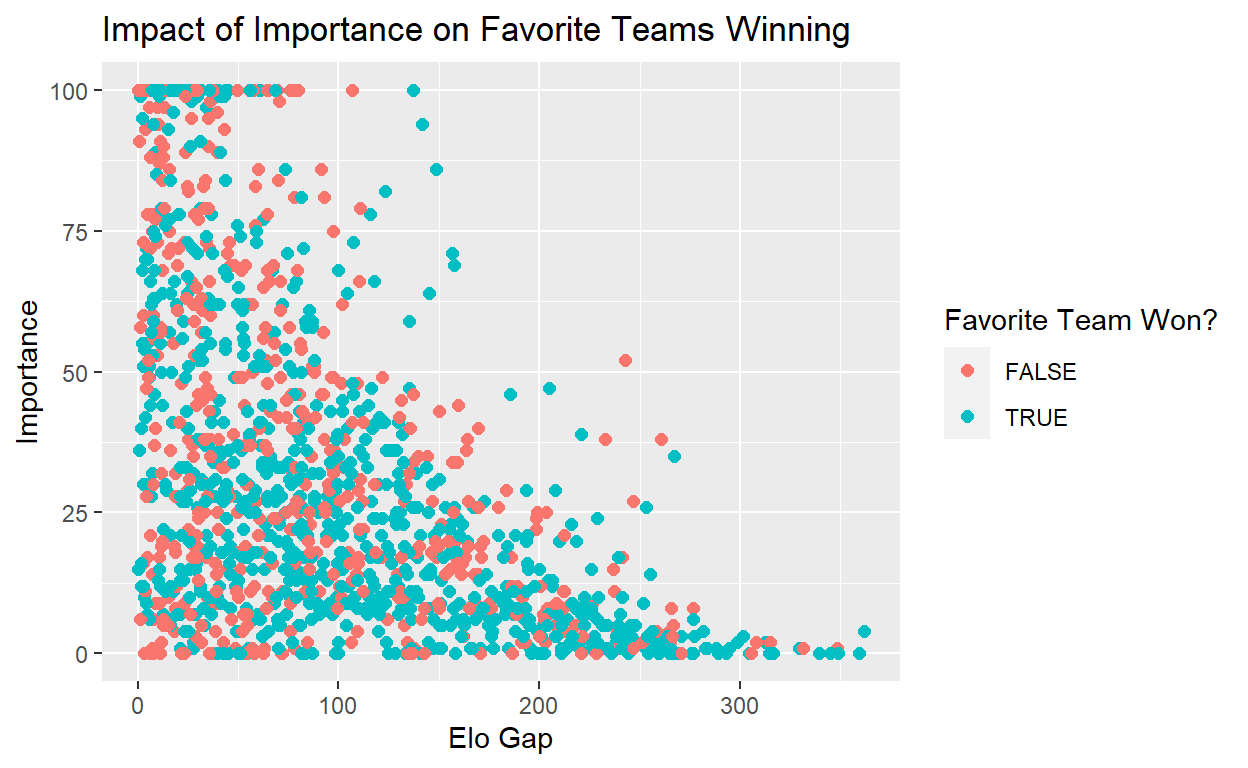
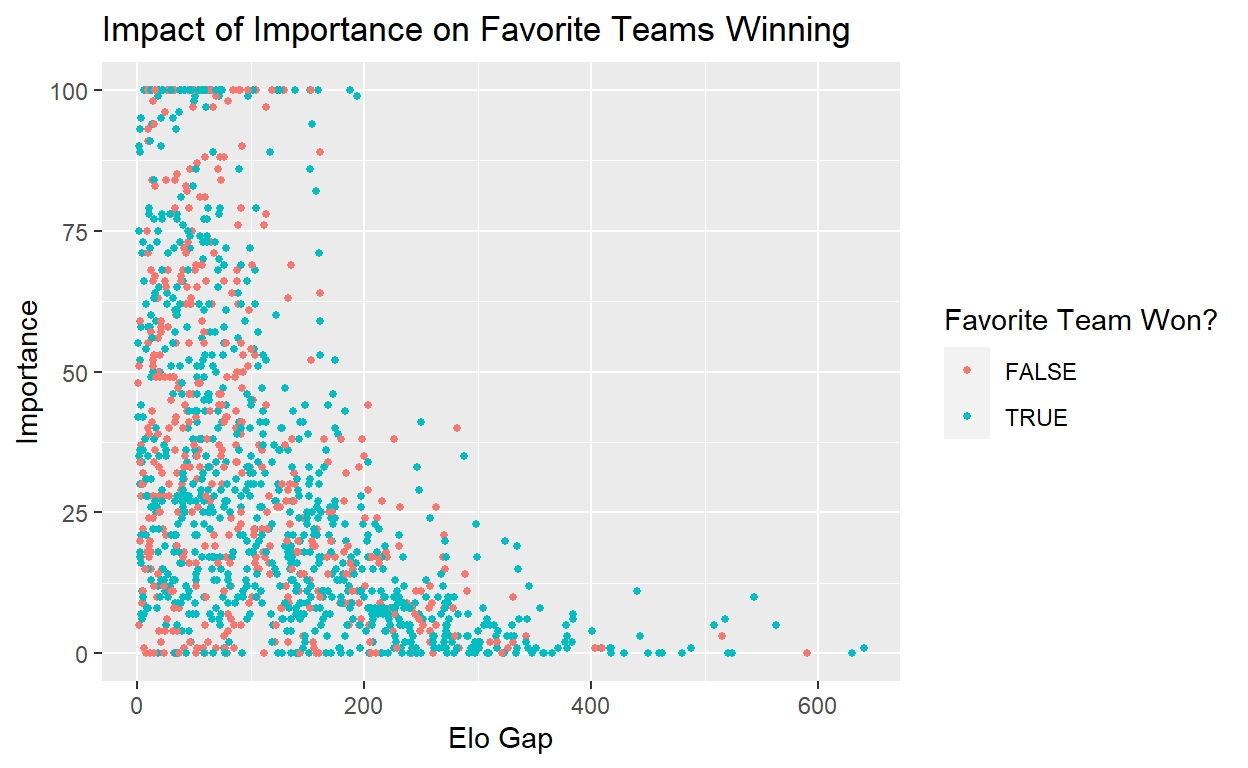
FINAL COMMIT.

diff --git a/index.html b/index.html
@@ -1524,60 +1524,73 @@ code span.wa { color: #5e5e5e; font-style: italic; } /* Warning */
 <span><span class='kw'><a href='https://rdrr.io/r/base/library.html'>library</a></span><span class='op'>(</span><span class='va'><a href='https://readr.tidyverse.org'>readr</a></span><span class='op'>)</span></span></code></pre>
 </div>
 </div>
+<h2 id="introduction">Introduction</h2>
+<p>Any competitive athlete knows that under pressure, performance takes a hit. Nerves make it difficult to play to the best of our abilities, and while professional athletes often utilize mental training to mitigate these negative effects, there are countless examples of player performance taking a hit under pressure: a kicker double-doinking a game winning field goal, or an NBA player bricking the go-ahead free throw. This research project set out to explore this problem through the lens of basketball, asking: how does importance impact how basketball teams perform? I hypothesize that when estimated importance is higher, favored teams will win a lower proportion of games as opposed to when estimated importance is lower, due to the added pressure of the perceived importance.</p>
+<p>The unit of analysis is an NBA game, and the explanatory variable is interest as measured by 538. Importance is the extent to which a game impacted NBA Championship odds, using data from the 2022-2023 NBA season. When teams win games, they increase the chance that they will make the playoffs, and they also decrease the chance that other teams will make the NBA playoffs. Of course, the more likely a team is to make the playoffs, the more likely they are to win the championship, although occasionally teams with lower playoff odds will have higher championship odds. My outcome variable is winning, specifically if the favored team won. I assigned favorite-status and underdog-status based on 538’s elo ratings. We’d expect favorites to win more often than not in both low- and high-importance games if importance had no impact on outcome. This research is important because performance is not unique to sports games: doctors, firefighters, and just about every other professional is put in high-pressure situations at some point or another. Moreover, students must take extremely important exams, like their finals or standardized tests. Knowing how NBA players perform under pressure will allow us to draw insights into other fields, as well as consider how effective the interventions NBA players undergo to prevent nerves from impacting their performance really are.</p>
+<h2 id="data">Data</h2>
+<p>This is a cross-sectional study; data was collected at a single point in time following the NBA Season, and I examined the relationship between importance and the performance of the favored team. The data source is the entire catalog of games from the 2022-2023 NBA Season. Each game was assigned an importance rating prior to the game; additionally, both teams competing in a game were assigned elos before the game. Per fivethirtyeight.com, importance is calculated differently depending on outcomes in different sports. For instance, in the Premiere League, importance not only measures final standings, but also the odds of making the Champions League or being relegated. In the NBA, the outcomes are championship and playoff odds. 538 calculates these odds conditional on a particular team winning and losing before taking the difference between them. They then take the factor with the maximum range of difference for each team and scale the value to be between 0 and 100, before averaging the two competitors’ individual importance measures. The other important variable is RAPTOR, which is 538’s own elo measure. In the season in question, RAPTOR ranged from the Nuggets’ 1719 to the Piston’s 1299. The model rose to fame after it correctly forecasted the 2018-2019 Toronto Raptor’s NBA Championship win over the Golden State Warriors. The implied odds of the Warriors winning the championship were approximately 25 percent, making the model’s forecast incredibly impressive. RAPTOR individually rates players in two ways: a box score component that uses individual player stats, and an on-off component that measures team performance when a player is on or off the court.</p>
+<p>I will now further describe the RAPTOR method: RAPTOR starts with the insights from RAPM, or real adjusted plus-minus, which measures point differential when a player is on the court. RAPM attempts to measure the value that a player contributes to his team’s ability to outscore and out defend their opponents. RAPTOR measures offense in four categories: scoring and usage; passing; rebounding; and space creation. Then, it measures defense with: steals; fouls drawn; opponent field goal percentage; defensive rebounds; and points scored by the opponent the player in question is supposed to be guarding. RAPTOR uses individual stats by adjusting them relative to league average before regressing them against RAPM, and it also controls for these outliers like Javale McGee on a 67-win Warriors team that didn’t really make force him to play all that well to win. It attempts to control for for the mediocre player, amazing team problem. Players with amazing teammates will find it easier to make shots, dish out assists, and get rebounds on the offensive side of the ball, and players with phenomenal defenders on their team will get bailed out by the skill of their teammates. Some players appear to be much better than they are because they are on an amazing team: regardless of how well they play, the rest of their team will ensure that they outperform their opponents. To get from individual ratings to a team rating, the sum of all individual ratings on a team is multiplied by .8 in the regular season and .9 in the playoffs. I used RAPTOR and wins to create a new variable called fav_won that measured if the team with the higher RAPTOR elo won. I also created a variable called elo_gap that measures how wide the gap between the favorite and the underdog was; this is important in measuring magnitude, since it is possible that past a certain elo gap, importance ceases to be important. For instance, even if the entire world was watching, no college football team would ever beat an NFL team.</p>
 <div class="layout-chunk" data-layout="l-body">
 <div class="sourceCode">
-<pre class="sourceCode r"><code class="sourceCode r"><span><span class='va'>nba_elo</span> <span class='op'>&lt;-</span> <span class='fu'><a href='https://readr.tidyverse.org/reference/read_delim.html'>read_csv</a></span><span class='op'>(</span><span class='st'>"C:\\Users\\jonah\\Downloads\\nba_elo_latest.csv"</span><span class='op'>)</span></span>
+<pre class="sourceCode r"><code class="sourceCode r"><span><span class='va'>raptor_elo</span> <span class='op'>&lt;-</span> <span class='fu'><a href='https://readr.tidyverse.org/reference/read_delim.html'>read_csv</a></span><span class='op'>(</span><span class='st'>"C:\\Users\\jonah\\Downloads\\nba_elo_latest.csv"</span><span class='op'>)</span></span>
 <span></span>
-<span><span class='va'>nba_elo</span> <span class='op'>&lt;-</span> <span class='va'>nba_elo</span> <span class='op'>|&gt;</span></span>
-<span>  <span class='fu'><a href='https://dplyr.tidyverse.org/reference/mutate.html'>mutate</a></span><span class='op'>(</span>elo_gap <span class='op'>=</span> <span class='fu'><a href='https://rdrr.io/r/base/MathFun.html'>abs</a></span><span class='op'>(</span><span class='va'>elo1_pre</span> <span class='op'>-</span> <span class='va'>elo2_pre</span><span class='op'>)</span>,</span>
-<span>         fav_won <span class='op'>=</span> <span class='op'>(</span><span class='va'>elo1_pre</span> <span class='op'>&gt;</span> <span class='va'>elo2_pre</span> <span class='op'>&amp;</span> <span class='va'>score1</span> <span class='op'>&gt;</span> <span class='va'>score2</span><span class='op'>)</span> </span>
-<span>                 <span class='op'>|</span> <span class='op'>(</span><span class='va'>elo1_pre</span> <span class='op'>&lt;</span> <span class='va'>elo2_pre</span> <span class='op'>&amp;</span> <span class='va'>score1</span> <span class='op'>&lt;</span> <span class='va'>score2</span><span class='op'>)</span><span class='op'>)</span></span>
+<span><span class='va'>raptor_elo</span> <span class='op'>&lt;-</span> <span class='va'>raptor_elo</span> <span class='op'>|&gt;</span></span>
+<span>  <span class='fu'><a href='https://dplyr.tidyverse.org/reference/mutate.html'>mutate</a></span><span class='op'>(</span>elo_gap <span class='op'>=</span> <span class='fu'><a href='https://rdrr.io/r/base/MathFun.html'>abs</a></span><span class='op'>(</span><span class='va'>raptor1_pre</span> <span class='op'>-</span> <span class='va'>raptor2_pre</span><span class='op'>)</span>,</span>
+<span>         fav_won <span class='op'>=</span> <span class='op'>(</span><span class='va'>raptor1_pre</span> <span class='op'>&gt;</span> <span class='va'>raptor2_pre</span> <span class='op'>&amp;</span> <span class='va'>score1</span> <span class='op'>&gt;</span> <span class='va'>score2</span><span class='op'>)</span> </span>
+<span>                 <span class='op'>|</span> <span class='op'>(</span><span class='va'>raptor1_pre</span> <span class='op'>&lt;</span> <span class='va'>raptor2_pre</span> <span class='op'>&amp;</span> <span class='va'>score1</span> <span class='op'>&lt;</span> <span class='va'>score2</span><span class='op'>)</span><span class='op'>)</span></span>
 <span></span>
-<span><span class='va'>fav_elo_plot</span> <span class='op'>&lt;-</span> <span class='fu'><a href='https://ggplot2.tidyverse.org/reference/ggplot.html'>ggplot</a></span><span class='op'>(</span><span class='va'>nba_elo</span>, <span class='fu'><a href='https://ggplot2.tidyverse.org/reference/aes.html'>aes</a></span><span class='op'>(</span>x <span class='op'>=</span> <span class='va'>elo_gap</span>, y <span class='op'>=</span> <span class='va'>importance</span><span class='op'>)</span><span class='op'>)</span> <span class='op'>+</span></span>
-<span>  <span class='fu'><a href='https://ggplot2.tidyverse.org/reference/geom_point.html'>geom_point</a></span><span class='op'>(</span><span class='fu'><a href='https://ggplot2.tidyverse.org/reference/aes.html'>aes</a></span><span class='op'>(</span>color <span class='op'>=</span> <span class='va'>fav_won</span><span class='op'>)</span>, size <span class='op'>=</span> <span class='fl'>2</span><span class='op'>)</span> <span class='op'>+</span></span>
+<span><span class='va'>fav_elo_plot</span> <span class='op'>&lt;-</span> <span class='fu'><a href='https://ggplot2.tidyverse.org/reference/ggplot.html'>ggplot</a></span><span class='op'>(</span><span class='va'>raptor_elo</span>, <span class='fu'><a href='https://ggplot2.tidyverse.org/reference/aes.html'>aes</a></span><span class='op'>(</span>x <span class='op'>=</span> <span class='va'>elo_gap</span>, y <span class='op'>=</span> <span class='va'>importance</span><span class='op'>)</span><span class='op'>)</span> <span class='op'>+</span></span>
+<span>  <span class='fu'><a href='https://ggplot2.tidyverse.org/reference/geom_point.html'>geom_point</a></span><span class='op'>(</span><span class='fu'><a href='https://ggplot2.tidyverse.org/reference/aes.html'>aes</a></span><span class='op'>(</span>color <span class='op'>=</span> <span class='va'>fav_won</span><span class='op'>)</span>, size <span class='op'>=</span> <span class='fl'>1</span><span class='op'>)</span> <span class='op'>+</span></span>
 <span>  <span class='fu'><a href='https://ggplot2.tidyverse.org/reference/labs.html'>labs</a></span><span class='op'>(</span>x <span class='op'>=</span> <span class='st'>"Elo Gap"</span>, y <span class='op'>=</span> <span class='st'>"Importance"</span>, color <span class='op'>=</span> <span class='st'>"Favorite Team Won?"</span><span class='op'>)</span> <span class='op'>+</span></span>
 <span>  <span class='fu'><a href='https://ggplot2.tidyverse.org/reference/labs.html'>ggtitle</a></span><span class='op'>(</span><span class='st'>"Impact of Importance on Favorite Teams Winning"</span><span class='op'>)</span></span>
 <span></span>
 <span><span class='va'>fav_elo_plot</span></span></code></pre>
 </div>
-<img src="index_files/figure-html5/unnamed-chunk-2-1.png" width="624" />
+<p><img src="index_files/figure-html5/unnamed-chunk-2-1.png" width="624" /></p>
+</div>
+<h2 id="results">Results</h2>
+<div class="layout-chunk" data-layout="l-body">
 <div class="sourceCode">
-<pre class="sourceCode r"><code class="sourceCode r"><span><span class='va'>lm_model</span> <span class='op'>&lt;-</span> <span class='fu'><a href='https://rdrr.io/r/stats/lm.html'>lm</a></span><span class='op'>(</span><span class='va'>fav_won</span> <span class='op'>~</span> <span class='va'>importance</span>, data <span class='op'>=</span> <span class='va'>nba_elo</span><span class='op'>)</span> <span class='op'>|&gt;</span></span>
+<pre class="sourceCode r"><code class="sourceCode r"><span><span class='va'>lm_model</span> <span class='op'>&lt;-</span> <span class='fu'><a href='https://rdrr.io/r/stats/lm.html'>lm</a></span><span class='op'>(</span><span class='va'>fav_won</span> <span class='op'>~</span> <span class='va'>importance</span>, data <span class='op'>=</span> <span class='va'>raptor_elo</span><span class='op'>)</span> <span class='op'>|&gt;</span></span>
 <span>  <span class='fu'>broom</span><span class='fu'>::</span><span class='fu'><a href='https://generics.r-lib.org/reference/tidy.html'>tidy</a></span><span class='op'>(</span><span class='op'>)</span> <span class='op'>|&gt;</span></span>
-<span>  <span class='fu'>knitr</span><span class='fu'>::</span><span class='fu'><a href='https://rdrr.io/pkg/knitr/man/kable.html'>kable</a></span><span class='op'>(</span>digits <span class='op'>=</span> <span class='fl'>5</span><span class='op'>)</span></span>
+<span>  <span class='fu'>knitr</span><span class='fu'>::</span><span class='fu'><a href='https://rdrr.io/pkg/knitr/man/kable.html'>kable</a></span><span class='op'>(</span>digits <span class='op'>=</span> <span class='fl'>3</span>,</span>
+<span>               col.names <span class='op'>=</span> <span class='fu'><a href='https://rdrr.io/r/base/c.html'>c</a></span><span class='op'>(</span><span class='st'>"Term"</span>, <span class='st'>"Coefficient"</span>, <span class='st'>"Std. Error"</span>, <span class='st'>"Statistic"</span>, <span class='st'>"P-value"</span><span class='op'>)</span><span class='op'>)</span></span>
 <span></span>
 <span><span class='va'>lm_model</span></span></code></pre>
 </div>
 <table>
 <thead>
 <tr class="header">
-<th style="text-align: left;">term</th>
-<th style="text-align: right;">estimate</th>
-<th style="text-align: right;">std.error</th>
-<th style="text-align: right;">statistic</th>
-<th style="text-align: right;">p.value</th>
+<th style="text-align: left;">Term</th>
+<th style="text-align: right;">Coefficient</th>
+<th style="text-align: right;">Std. Error</th>
+<th style="text-align: right;">Statistic</th>
+<th style="text-align: right;">P-value</th>
 </tr>
 </thead>
 <tbody>
 <tr class="odd">
 <td style="text-align: left;">(Intercept)</td>
-<td style="text-align: right;">0.68334</td>
-<td style="text-align: right;">0.01986</td>
-<td style="text-align: right;">34.41248</td>
+<td style="text-align: right;">0.693</td>
+<td style="text-align: right;">0.02</td>
+<td style="text-align: right;">35.226</td>
 <td style="text-align: right;">0</td>
 </tr>
 <tr class="even">
 <td style="text-align: left;">importance</td>
-<td style="text-align: right;">-0.00252</td>
-<td style="text-align: right;">0.00045</td>
-<td style="text-align: right;">-5.55972</td>
+<td style="text-align: right;">-0.002</td>
+<td style="text-align: right;">0.00</td>
+<td style="text-align: right;">-4.355</td>
 <td style="text-align: right;">0</td>
 </tr>
 </tbody>
 </table>
 </div>
-<p>Does perceived importance impact how basketball teams perform? In this study, I plan to examine the extent to which the importance of a game on NBA Championship chances impacts NBA scores. I hypothesize that in more important games, the favorite will beat the underdog by a larger margin of victory on average than in less important games. My sample is NBA games from the 2022-2023 season, although I have the data to go back further if I deem it necessary. My unit of analysis is an NBA game. The explanatory variable of interest is the game’s importance, as measured by 538. Importance essentially measures how the outcome of a game will change each team’s statistical outlook on the season. Importance is measured numerically on a scale of 0 to 100, with 0 being the least important and 100 being the most important. My outcome variable is the difference in scores, as this shows not only who won but the magnitude of their victory. For instance, a value of 11 would indicate that the winning team beat the losing team by 11 points, while an outcome variable of -5 would indicate the losing team beat the winning team by 5. If I observe that games with higher importance also have higher outcomes, my hypothesis would be supported. If games with higher importance had lower average outcomes than games with lower importance, this would provide evidence against my hypothesis. When I run my regression of the importance of a game on my outcome variable, a positive, significant coefficient would indicate support for my hypothesis.</p>
-<p>My first regression contained multiple useful pieces of information. First, we see that intercept is .68334. This means that in games when the importance is zero, the favorite wins 68.33% of the time. We also see that the coefficient for importance is -.00252, meaning that, holding all other variables constant, a one-unit increase in importance results in a decrease of .00252 units in the fav_won variable. In other words, for every one-unit increase in importance, the favorite team’s probability of winning decreases by 0.252 percentage points. The p-values of zero in both the intercept and importance suggest statistically significant findings.</p>
+<p>First, the scatter plot is important for a few reasons. It shows that there aren’t many games with high importance between teams with large elo gaps. This makes sense: a team with a very low elo probably has poor chances for making the playoffs or winning the championship, regardless of their performance in any given game. Since importance is calculated as an average of the individual importance a game holds for both teams in a game, the low importance brought by a bad team drags down the overall importance. However, the data is promising because it shows many important games where underdogs overcame elo gaps, and even moderately sized ones. More analysis needed to draw conclusions, though.</p>
+<p>Now, we should break down the intercept data. The value of 0.693 is the probability that the favored team wins when controlling for importance; if all games had no importance, the favored team would be expected to win approximately 69.3% of the time. The standard error was .02, meaning that this approximate has about two percentage points of uncertainty; we might expect the true probability to be somewhere between 67.3% and 71.3%.</p>
+<p>Next, importance. The coefficient was -.002; the negative sign indicates that as importance increases, the likelihood that the favored team won decreased. The value of .002 is by how much; as importance increased by one, the favored team had a .2 percentage point smaller chance of winning. The p-value is listed as zero in the table, but using get_p_value, I found it to be approximately .0001; this indicates a statistically significant impact of importance on whether or not the favored team won with an extremely high level of certainty. As such, I can reject the null hypothesis that importance has no impact on whether or not the favored team won; this data and my analysis suggests that importance has a statistically significant negative correlation with the performance of the favored team. I am hesitant to draw a conclusion from this due to the nature of it being a cross-sectional study. Since each game was only played once, we cannot tell with certainty what would happen if the exact same game was replayed with more or less importance. As such, we can only draw conclusions based on correlation. Moreover, several confounders may be present. I discuss these further in the conclusion.</p>
+<h2 id="conclusion">Conclusion</h2>
+<p>My results suggest a statistically significant negative correlation between importance and the performance of the favored team, since the coefficient was -.002 and the p-value was .0001. This provides very strong support for my hypothesis: that favored teams will have a lower chance of winning in games that are more important as opposed to games that are less important. Unfortunately, the presence of confounders muddles my certainty about this data. The largest confounder is individual team elo. Teams that are better are more likely to be championship contenders, and wins and losses therefore will have a larger sway on their championship odds. Conversely, terrible teams will be unlikely to win a championship or make a playoff, regardless of whether or not they win one game in an 82-game season. This problem grows as the season goes on: teams that have been eliminated from playoff contention will drag down the importance variable. This is a problem because it means that the games that we really care about the outcome in, games with large elo disparities and high importance, are hard to come by. The data set does not include individual importance ratings for each team, so I could not try to control for this by only taking higher importance value between two teams in a game, or subsetting the data to include favored teams facing high importance values. Of course, individual team elo also impacts the outcome of a game – the teams with the highest elos are unlikely to be underdogs and are more likely to the majority of their games, and teams with the lowest elos are very likely to be underdogs and lose the majority of their games. As such, both the importance values, and the binary variable of whether or not the favored team won, are heavily influenced by the elo values of the teams involved in the game. Additionally, teams do not always perform in ways that appear rational inside the scope of one game, and are only rational when considering the bigger picture. For instance, teams may lose games intentionally to try to bolster their chances of drafting an elite prospect; this was a large problem last season, since generational prospect Victor Wembanyama declared for the NBA Draft. Additionally, teams may choose to rest their best players before the playoffs or important games. All of these factors, as well as the nature of a cross-sectional study, make it difficult to declare a causal effect of importance on whether the favored team won. If I were to continue this analysis, I would attempt to obtain individual importance ratings as opposed to the average between two teams. Additionally, I would expand my dataset to include more seasons, and then subset the data to specifically examine high-importance games between teams with a moderate to large elo gap. There were simply not enough of these in the 2022-2023 season, as measured by the scatterplot, so expanding the dataset would be necessary. Still, I am comfortable saying that there is solid evidence of some negative correlation between importance and favored team performance, although it may be less certain and less significant than the p-value and coefficient indicated.</p>
 <div class="sourceCode" id="cb1"><pre class="sourceCode r distill-force-highlighting-css"><code class="sourceCode r"></code></pre></div>
 <!--radix_placeholder_article_footer-->
 <!--/radix_placeholder_article_footer-->
